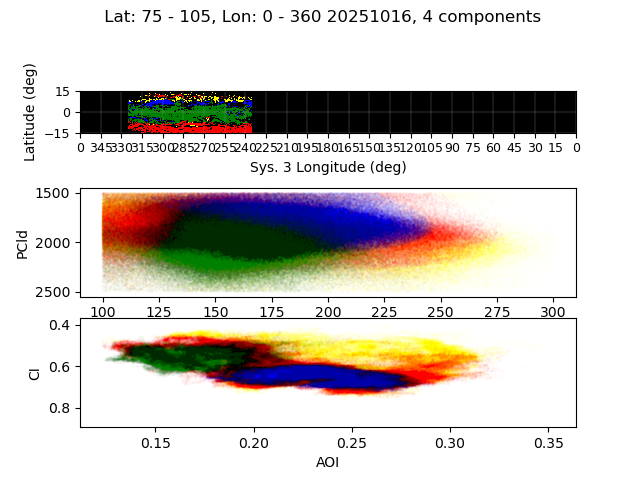
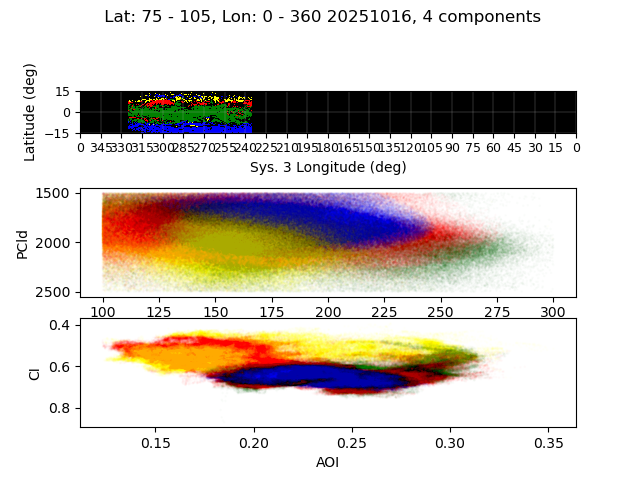
feat: create inividual indices and nh3/pcld map comparisons on HST data

diff --git a/scripts/processes.py b/scripts/processes.py
@@ -14,9 +14,9 @@ import pylab as pl
 
 def output_cluster_map_and_plot(date, keywords, param_ranges, 
                            latRng = [85, 95], lngRng = [230, 330], 
-                           n_comp = 4, cov_type = "full", cm_num = 3):
+                           n_comp = 4, cov_type = "full", cm_num = 1):
     [input_arr, subset_shape] = pre.get_input_array(keywords, param_ranges, latRng, lngRng, cm_num)
-    pred = CL.create_clusters(input_arr[:, [0,1]], cov_type, n_comp, config["soft_clustering"])
+    pred = CL.create_clusters(input_arr[:, 0:len(keywords)], cov_type, n_comp, config["soft_clustering"])
     colors =["red", "green", "blue", "yellow", "orange", "pink"]
     cmap = ListedColormap(colors[:n_comp])
     fig, axis = pl.subplots(2, 1)
@@ -25,7 +25,8 @@ def output_cluster_map_and_plot(date, keywords, param_ranges,
     PL.create_cluster_plot(axis[1],  keywords, 0, 1, input_arr, pred,  n_comp, cov_type, latRng, lngRng, cmap, cm_num)
     fig.suptitle(f' Lat: {latRng[0]} - {latRng[1]}, Lon: {lngRng[0]} - {lngRng[1]} {date}, {n_comp} components')
     lat_lon_str = f'{latRng[0]}-{latRng[1]}_{lngRng[0]}-{lngRng[1]}'
-    fig.savefig(f'{config["output"]}/{date}_{lat_lon_str}_{n_comp}_map_and_plot.png')
+    keyword_str = '_'.join(keywords)
+    fig.savefig(f'{config["output"]}/{date}_{keyword_str}_{lat_lon_str}_{n_comp}_sys_{cm_num}_map_plot.png')
 
 def output_cluster_map_and_plots(date, keywords, param_ranges, 
                            latRng = [85, 95], lngRng = [230, 330], 
@@ -99,12 +100,12 @@ def create_map_comparison(date, keywords, param_ranges,
     print("start fig")
     fig, axis = pl.subplots(3, 1, constrained_layout = True)
     fig.tight_layout()
-    cloud_map = pre.get_patch("PCld", latRng, lngRng, cm_num)
-    amm_map = pre.get_patch("NH3", latRng, lngRng, cm_num)
+    cloud_map = pre.get_patch(keywords[0], latRng, lngRng, cm_num)
+    amm_map = pre.get_patch(keywords[1], latRng, lngRng, cm_num)
     print("plotting")
     MP.create_cluster_map(axis[0], n_comp, pred, input_arr, subset_shape, latRng, lngRng, cmap, cm_num, fig, True)
-    MP.plot_patch(cloud_map, latRng, lngRng, "Blues", axis[1], 1000, 3000,  "Cloud Pressure", cm_num, fig, True)
-    MP.plot_patch(amm_map, latRng, lngRng, "terrain_r", axis[2], 0, 300, "Ammonia", cm_num, fig, True)
+    MP.plot_patch(cloud_map, latRng, lngRng, "Blues", axis[1], param_ranges[0][0], param_ranges[0][1],  "Cloud Pressure", cm_num, fig, True)
+    MP.plot_patch(amm_map, latRng, lngRng, "terrain_r", axis[2], param_ranges[1][0], param_ranges[1][1], "Ammonia", cm_num, fig, True)
     fig.suptitle(f' Lat: {latRng[0]} - {latRng[1]}, Lon: {lngRng[0]} - {lngRng[1]} {date}, {n_comp} components')
     lat_lon_str = f'{latRng[0]}-{latRng[1]}_{lngRng[0]}-{lngRng[1]}'
     keyword_str = '_'.join(keywords)
@@ -115,7 +116,13 @@ def create_map_comparison(date, keywords, param_ranges,
 #output_cluster_map("20251214", ["NH3", "PCld"], [[0, 300], [1000, 3000]], 5)
 #get correct filters
 #create_map_comparison("20251016", ["NH3", "PCld", "AOI", "CI"], [[100, 300], [1500,  2500], [0, 1], [0, 1]], [75, 105], [0, 200])#
-output_cluster_map_and_plots("20251016", ["NH3", "PCld", "AOI", "CI"], [[100, 300], [1500,  2500], [0, 1], [0, 1]], [75, 105], [0, 360], 4)
+#output_cluster_map_and_plot("20251016", ["NH3", "PCld", "AOI", "CI"], [[100, 300], [1500,  2500], [0, 1], [0, 1]], [75, 105], [0, 360], 4)
+
+#create_map_comparison("20251016", ["NH3", "PCld"], [[100, 300], [1500,  2500]], [75, 105], [0, 200])
+#output_cluster_map_and_plot("20251016", ["NH3", "PCld"], [[100, 300], [1500,  2500]], [75, 105], [0, 360], 4)
+
+create_map_comparison("20251016", ["AOI", "CI"], [[0, 1], [0, 1]], [75, 105], [0, 200])
+#output_cluster_map_and_plot("20251016", ["AOI", "CI"], [[0, 1], [0, 1]], [75, 105], [0, 360], 4)
 
 
 #output_cluster_map_and_plot("20251214", ["NH3", "PCld"], [[0, 300], [1000, 3000]], 5)

diff --git a/scripts/plots/mapping.py b/scripts/plots/mapping.py
@@ -31,6 +31,8 @@ def plot_cluster_patch(patch, LatLims, LonLims, cmap, axis, v_min, v_max, title,
     '''  
     n = v_max - v_min
     bounds = [i for i in range(v_max - v_min + 1)]
+    print(patch)
+    print(bounds)
     norm = colors.BoundaryNorm(bounds, cmap.N)
     create_axis(axis, [LatLims[0] - 90, 90 - LatLims[1]], LonLims,  cm_num)
     np.nan_to_num(patch, copy=False, nan=-1.0, posinf=0.0, neginf=0.0)
